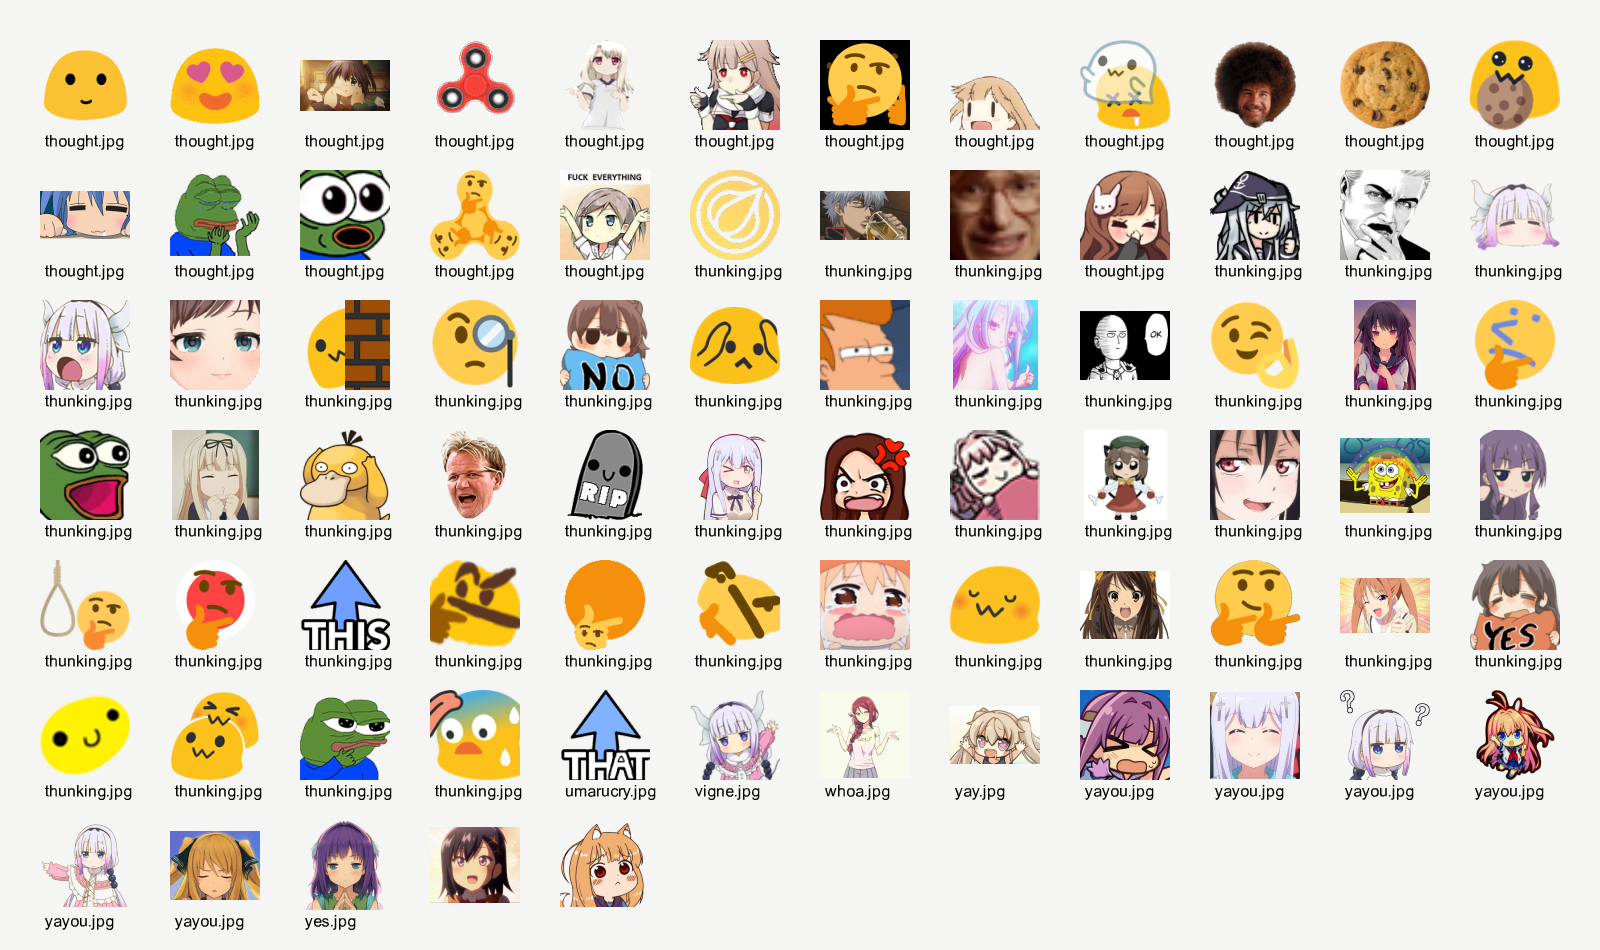
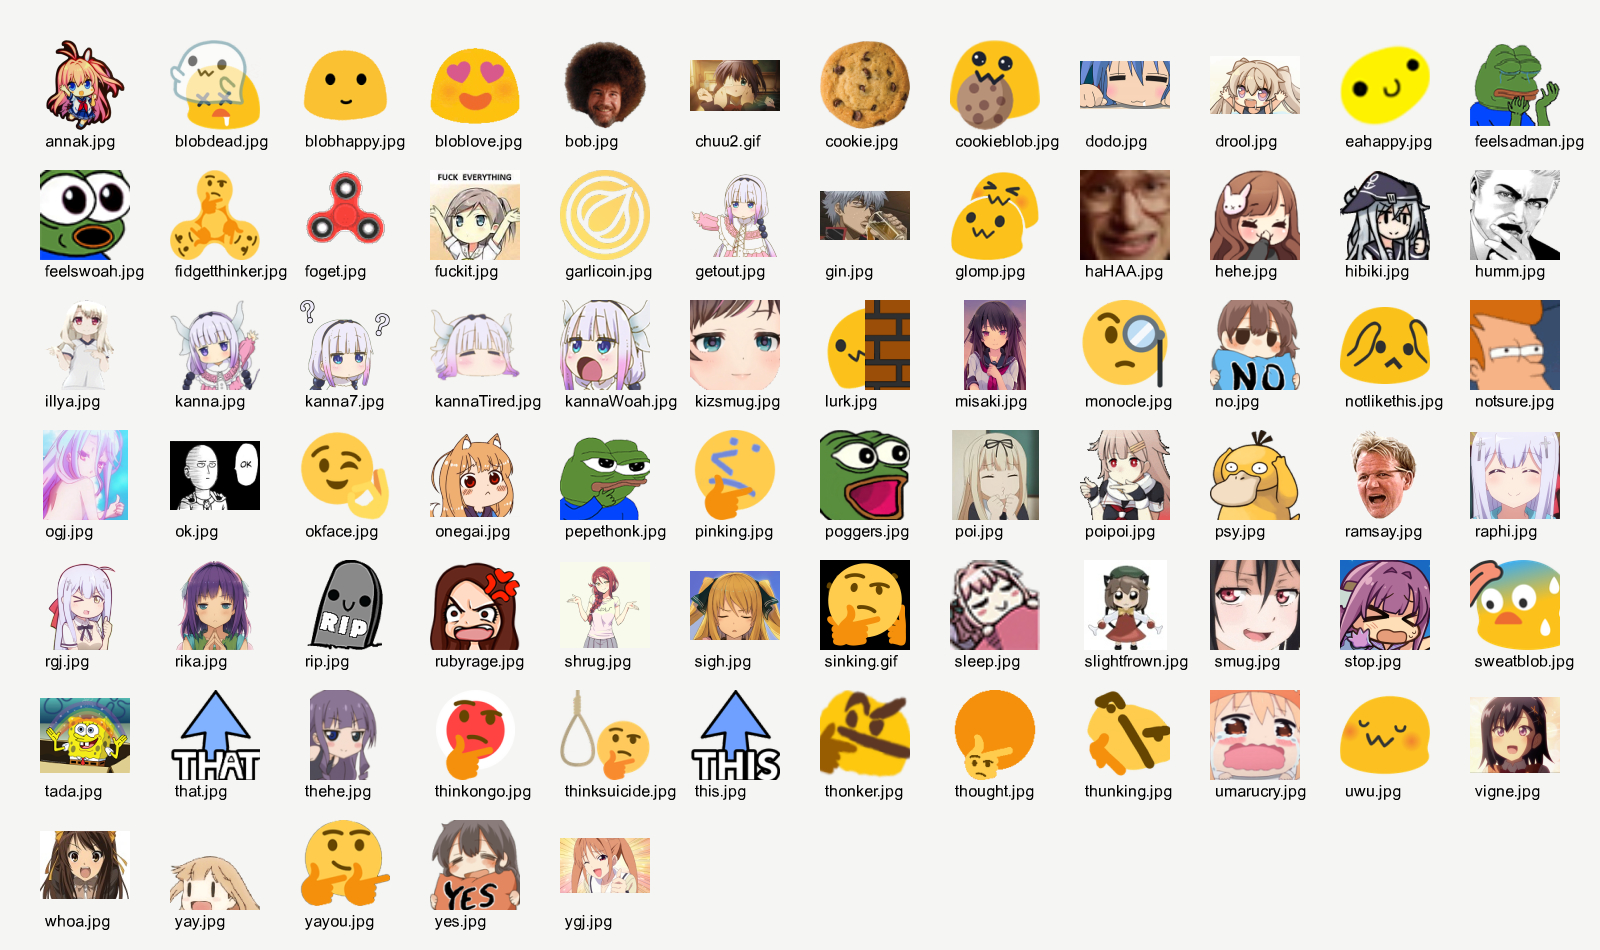
stickers preview create preview img (~3000-4000ms)

diff --git a/src/utils.js b/src/utils.js
@@ -3,9 +3,10 @@ const path = require('path')
 const Jimp = require('jimp')
 const sizeOf = require('image-size')
 const logger = require('./logger.js')
+const async = require('async')
 
 module.exports = utils = {
-	genStickersPreview: function() {
+	genStickersPreview: function () {
 		const stickerFolderPath = path.join(__dirname, './stickers')
 		fs.readdir(stickerFolderPath, (err, files) => {
 			var start = new Date().getTime()
@@ -19,28 +20,43 @@ module.exports = utils = {
 			var previewTemplate = new Jimp(templateWidth, templateHeight, (err, template) => {
 				template.background(0xf5f5f3ff)
 				var imgPosCounter = 0 //basically act as the index since Jimp.read is async
-				for (var i = 0; i < files.length; i++) {
-					var filePath = path.join(stickerFolderPath, files[i])
-					Jimp.read(filePath, (err, img) => {
-						img.contain(scaledDimensions, scaledDimensions, Jimp.HORIZONTAL_ALIGN_CENTER | Jimp.VERTICAL_ALIGN_MIDDLE)
-						var withMargin = margin + scaledDimensions
-						var xPos = imgPosCounter % stickersPerRow
-						var yPos = Math.floor(imgPosCounter / stickersPerRow)
-						var xPixels = margin + withMargin * xPos
-						var yPixels = margin + withMargin * yPos //yPos+1 for space on top
-						Jimp.loadFont(Jimp.FONT_SANS_16_BLACK).then(font => {
-							template.print(font, xPixels + 5, yPixels + scaledDimensions + 2, files[imgPosCounter], 40)
+				var stickerNames = []
+				var filePath //for scope
+				async.until(
+					() => imgPosCounter == files.length,
+					function (next) { //next is important !! :)
+						filePath = path.join(stickerFolderPath, files[imgPosCounter])
+						Jimp.read(filePath, (err, img) => {
+							// console.log(files[imgPosCounter], img, imgPosCounter, template)
+							stickerNames.push(files[imgPosCounter])
+							img.contain(scaledDimensions, scaledDimensions, Jimp.HORIZONTAL_ALIGN_CENTER | Jimp.VERTICAL_ALIGN_MIDDLE)
+							var withMargin = margin + scaledDimensions
+							var xPos = imgPosCounter % stickersPerRow
+							var yPos = Math.floor(imgPosCounter / stickersPerRow)
+							var xPixels = margin + withMargin * xPos
+							var yPixels = margin + withMargin * yPos
+							template.composite(img, xPixels, yPixels)
+							//console.log(files[imgPosCounter], imgPosCounter, xPixels, yPixels)
+							imgPosCounter++
+							next()
 						})
-						template.composite(img, xPixels, yPixels)
-						console.log(files[imgPosCounter], imgPosCounter, xPixels, yPixels)
-						imgPosCounter++
-						if (imgPosCounter == files.length) {
+					}, (err, results) => {
+						console.log('heyyy')
+						Jimp.loadFont(Jimp.FONT_SANS_16_BLACK).then(font => {
+							for (var i = 0; i < stickerNames.length; i++) {
+								var withMargin = margin + scaledDimensions
+								var xPos = i % stickersPerRow
+								var yPos = Math.floor(i / stickersPerRow)
+								var xPixels = margin + withMargin * xPos
+								var yPixels = margin + withMargin * yPos
+								template.print(font, xPixels + 5, yPixels + scaledDimensions + 2, stickerNames[i], 40)
+							}
 							previewTemplate.write('./ohhhh.jpg', (err, success) => {
-								console.log(err, success)
+								logger.success('file written', success + ' time taken : ' + (new Date().getTime() - start) + 'ms')
 							})
-						}
-					})
-				}
+						})
+					}
+				)
 			})
 		})
 	}
